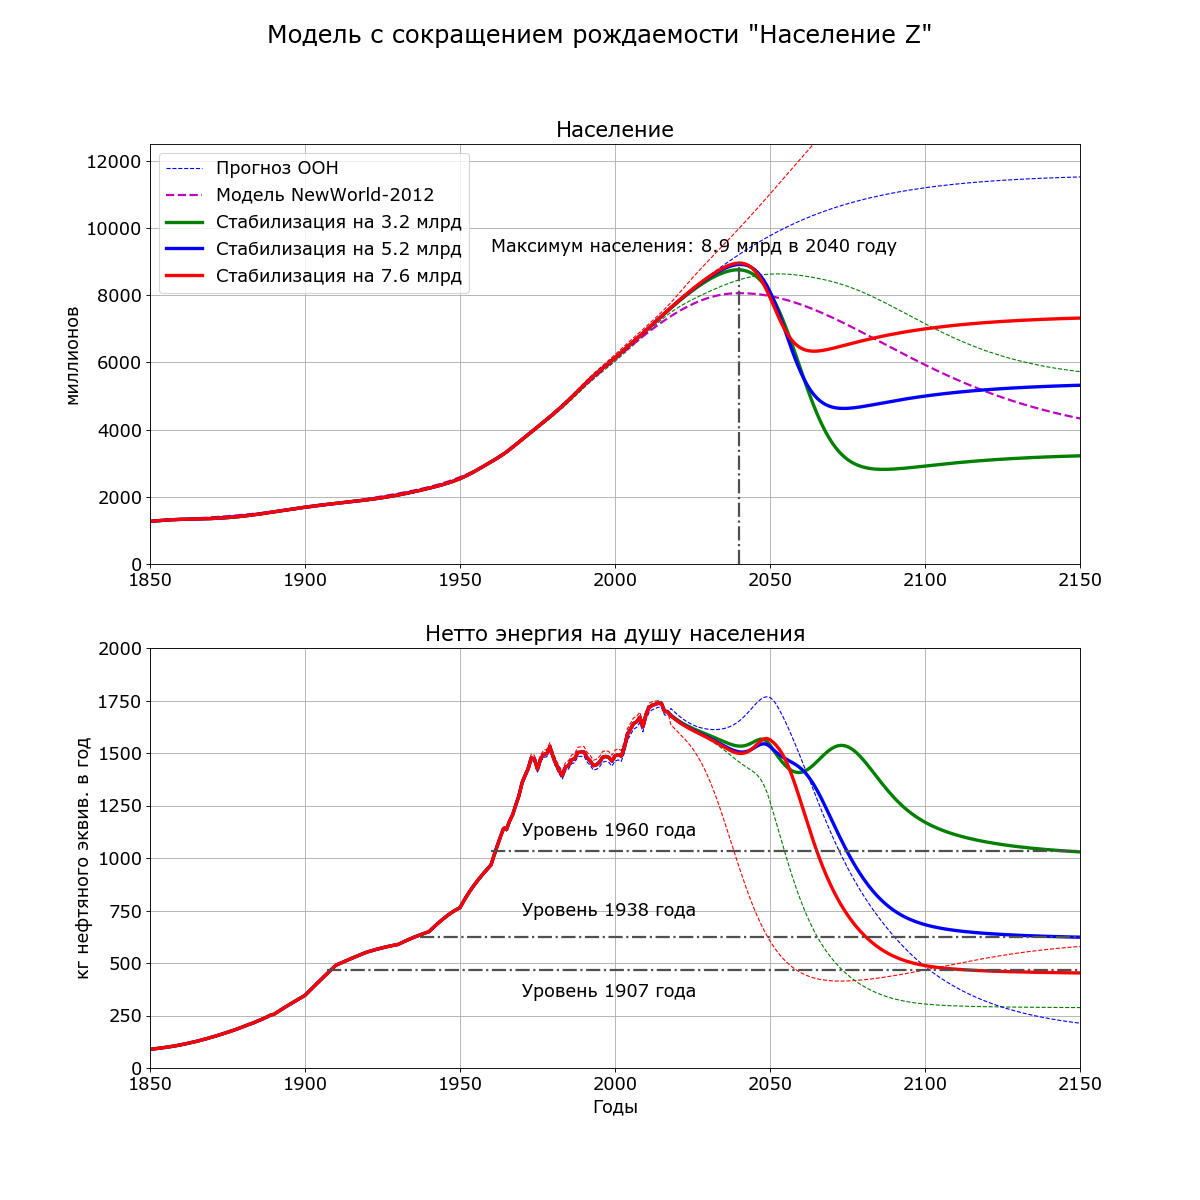
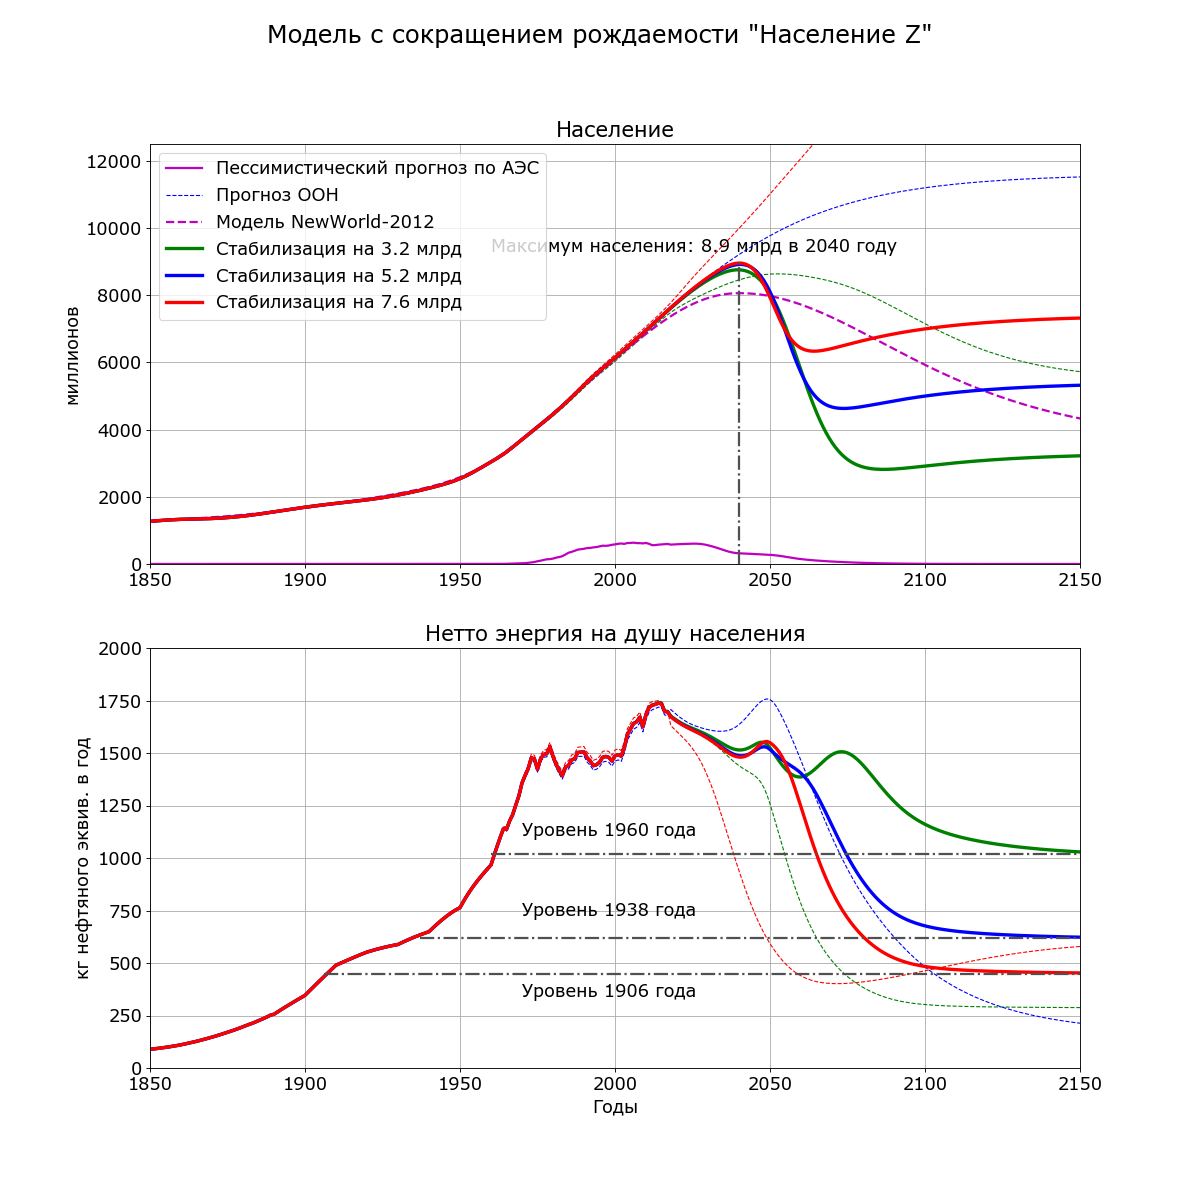
Added nuclear energy pessimistic projection

diff --git a/Chapter 15/Predictions.py b/Chapter 15/Predictions.py
@@ -249,7 +249,14 @@ class Interpolation_Realistic_2012( _Interpolation):
         self._Gas_Functions = [Hubbert( 2036, 0.061, 0.065, 4700)]
         self._Gas_Functions += [Hubbert( 1995, 0.1, 0.2, 600)]
         self._Gas_Functions += [Hubbert( 1975, 0.15, 0.2, 400)]
-        self._Nuclear_Functions = [Weibull( 1968, .015, 2.2, 45000)]
+
+        self._Nuclear_Functions = [Weibull( 1968, .018, 2.2, 40000)]
+        self._Nuclear_Functions += [Hubbert( 2013, 0.3, 0.3, -100)]
+        self._Nuclear_Functions += [Hubbert( 2028, 0.4, 0.29, 70)]
+        self._Nuclear_Functions += [Hubbert( 2038, 0.4, 0.4, -70)]
+        self._Nuclear_Functions += [Hubbert( 2052, 0.4, 0.4, 40)]
+        self._Nuclear_Functions += [Sigmoid( 2063, .08, 0, 1550)]
+
         self._Renewable_Functions = [Sigmoid( x0=2022.500, s0=0.07600, left=49.000, right=3550.000, shift=0.000)]
         self._Renewable_Functions += [Hubbert( x0=1985.000, s0=0.08724, s1=0.19580, peak=215.000, shift=0.000)]
         self._Renewable_Functions += [Hubbert( x0=1948.000, s0=0.07937, s1=0.14622, peak=55.132, shift=0.000)]
@@ -340,7 +347,14 @@ class Interpolation_Realistic_2018( _Interpolation):
         self._Gas_Functions = [Hubbert( 2036, 0.061, 0.065, 4700)]
         self._Gas_Functions += [Hubbert( 1995, 0.1, 0.2, 600)]
         self._Gas_Functions += [Hubbert( 1975, 0.15, 0.2, 400)]
-        self._Nuclear_Functions = [Weibull( 1968, .015, 2.2, 45000)]
+
+        self._Nuclear_Functions = [Weibull( 1968, .018, 2.2, 40000)]
+        self._Nuclear_Functions += [Hubbert( 2013, 0.3, 0.3, -100)]
+        self._Nuclear_Functions += [Hubbert( 2028, 0.4, 0.29, 70)]
+        self._Nuclear_Functions += [Hubbert( 2038, 0.4, 0.4, -70)]
+        self._Nuclear_Functions += [Hubbert( 2052, 0.4, 0.4, 40)]
+        self._Nuclear_Functions += [Sigmoid( 2063, .08, 0, 1550)]
+
         self._Renewable_Functions = [Sigmoid( x0=2022.500, s0=0.07600, left=49.000, right=3550.000, shift=0.000)]
         self._Renewable_Functions += [Hubbert( x0=1985.000, s0=0.08724, s1=0.19580, peak=215.000, shift=0.000)]
         self._Renewable_Functions += [Hubbert( x0=1948.000, s0=0.07937, s1=0.14622, peak=55.132, shift=0.000)]

diff --git a/Chapter 15/Model_06_Plateau_Nuclear_and_Renewable.py b/Chapter 15/Model_06_Plateau_Nuclear_and_Renewable.py
@@ -127,15 +127,12 @@ ax1 = plt.subplot(gs[0])
 ax2 = plt.subplot(gs[1])
 
 ax1.set_title("Нетто годовое извлечение энергии")
-#ax1.plot( Year, All_1P, "--", lw=1, color='#A0A0A0')
 ax1.plot( Year, M1_Cons_1P, "--", lw=1, color='r', label="Ископаемое топливо")
 ax1.plot( Year, M1_Cons_1P_r, "-.", lw=1, color='r', label="+ВИЭ при ERoEI={:.0f}".format(ERoEI_renewable))
 ax1.plot( Year, M1_Cons_1P_rn, "-", lw=2, color='r', label="+Ядерная при ERoEI={:.0f}".format(ERoEI_nuclear))
-#ax1.plot( Year, All_2P, "-", lw=1, color='#A0A0A0')
 ax1.plot( Year, M2_Cons_2P, "--", lw=1, color='g')
 ax1.plot( Year, M2_Cons_2P_r, "-.", lw=1, color='g')
 ax1.plot( Year, M2_Cons_2P_rn, "-", lw=2, color='g')
-#ax1.plot( Year, All_3P, "-.", lw=1, color='#A0A0A0')
 ax1.plot( Year, M3_Cons_3P, "--", lw=1, color='b')
 ax1.plot( Year, M3_Cons_3P_r, "-.", lw=1, color='b')
 ax1.plot( Year, M3_Cons_3P_rn, "-", lw=2, color='b')
@@ -148,11 +145,8 @@ ax1.grid(True)
 ax1.legend(loc=2)
 
 ax2.set_title("Нетто энергия на душу населения")
-#ax2.plot( Year, PP_1P, "--", lw=1, color='#A0A0A0')
 ax2.plot( Year, M1_CPP_1P, "-", lw=2, color='r', label="M1_1P (пик={:.0f} кг)".format(np.max(M1_CPP_1P)))
-#ax2.plot( Year, PP_2P, "--", lw=1, color='#A0A0A0')
 ax2.plot( Year, M2_CPP_2P, "-", lw=2, color='g', label="M2_2P (пик={:.0f} кг)".format(np.max(M2_CPP_2P)))
-#ax2.plot( Year, PP_3P, "--", lw=1, color='#A0A0A0')
 ax2.plot( Year, M3_CPP_3P, "-", lw=2, color='b', label="M3_3P (пик={:.0f} кг)".format(np.max(M3_CPP_3P)))
 ax2.plot( [1960,2150], [1031,1031], "-.", lw=2, color='#505050')
 ax2.plot( [1913,2150], [522,522], "--", lw=2, color='#505050')

diff --git a/Chapter 15/Model_09_Population_Z.py b/Chapter 15/Model_09_Population_Z.py
@@ -91,6 +91,7 @@ M3_Cons_3P = All_3P * M3.GetVectorInverse(Cum_3P/1000)
 ERoEI_renewable = 15
 ERoEI_nuclear = 10
 Prd = Interpolation_Realistic_2012()
+Prd._Nuclear_Functions[-1].Right = 0 # Simulates negative nuclear scenario
 Prd.Solve( Year)
 Prd.Correct_To_Actual( 1890, 2017)
 Renewable = Prd.Renewable * (1-1/ERoEI_renewable)
@@ -142,6 +143,7 @@ ax1 = plt.subplot(gs[0])
 ax2 = plt.subplot(gs[1])
 
 ax1.set_title("Население")
+ax1.plot( Year, Prd.Nuclear, "-", lw=2, color='m', label="Пессимистический прогноз по АЭС")
 ax1.plot( Year, population_low, "--", lw=1, color='g')
 ax1.plot( Year, population_medium, "--", lw=1, color='b', label="Прогноз ООН")
 ax1.plot( Year, population_high, "--", lw=1, color='r')
@@ -164,12 +166,12 @@ ax2.plot( Year, M3_CPP_3P, "--", lw=1, color='b')
 ax2.plot( Year, M1_CPP_2P_Z, "-", lw=3, color='g')
 ax2.plot( Year, M2_CPP_2P_Z, "-", lw=3, color='b')
 ax2.plot( Year, M3_CPP_2P_Z, "-", lw=3, color='r')
-ax2.plot( [1960,2150], [1031,1031], "-.", lw=2, color='#505050')
-ax2.plot( [1937,2150], [626,626], "-.", lw=2, color='#505050')
-ax2.plot( [1907,2150], [465,465], "-.", lw=2, color='#505050')
+ax2.plot( [1960,2150], [1020,1020], "-.", lw=2, color='#505050')
+ax2.plot( [1937,2150], [620,620], "-.", lw=2, color='#505050')
+ax2.plot( [1906,2150], [450,450], "-.", lw=2, color='#505050')
 ax2.text( 1970, 1106, "Уровень 1960 года")
 ax2.text( 1970, 726, "Уровень 1938 года")
-ax2.text( 1970, 336, "Уровень 1907 года")
+ax2.text( 1970, 336, "Уровень 1906 года")
 ax2.set_xlim( 1850, 2150)
 ax2.set_ylim( 0, 2000)
 ax2.set_xlabel("Годы")

diff --git a/Chapter 15/Model_08_Energy_X.py b/Chapter 15/Model_08_Energy_X.py
@@ -120,7 +120,7 @@ M2_CPP_2P = 1000.0 * M2_Cons_2P_rn / population_medium
 PP_3P = 1000.0 * All_3P / population_high
 M3_CPP_3P = 1000.0 * M3_Cons_3P_rn / population_high
 
-Energy_X = Sigmoid( 2050, 0.2, 0, 8600).GetVector(Year)
+Energy_X = Sigmoid( 2050, 0.2, 0, 7200).GetVector(Year)
 M1_Cons_1P_rnx = M1_Cons_1P_rn + Energy_X 
 M2_Cons_2P_rnx = M2_Cons_2P_rn + Energy_X
 M3_Cons_3P_rnx = M3_Cons_3P_rn + Energy_X
@@ -128,7 +128,7 @@ M1_CPP_1Px = 1000.0 * M1_Cons_1P_rnx / population_low
 M2_CPP_2Px = 1000.0 * M2_Cons_2P_rnx / population_medium
 M3_CPP_3Px = 1000.0 * M3_Cons_3P_rnx / population_high
 
-Energy_Y = Sigmoid( 2056, 0.13, 0, 15000).GetVector(Year)
+Energy_Y = Sigmoid( 2056, 0.13, 0, 12500).GetVector(Year)
 M1_Cons_1P_rny = M1_Cons_1P_rn + Energy_Y 
 M2_Cons_2P_rny = M2_Cons_2P_rn + Energy_Y
 M3_Cons_3P_rny = M3_Cons_3P_rn + Energy_Y
